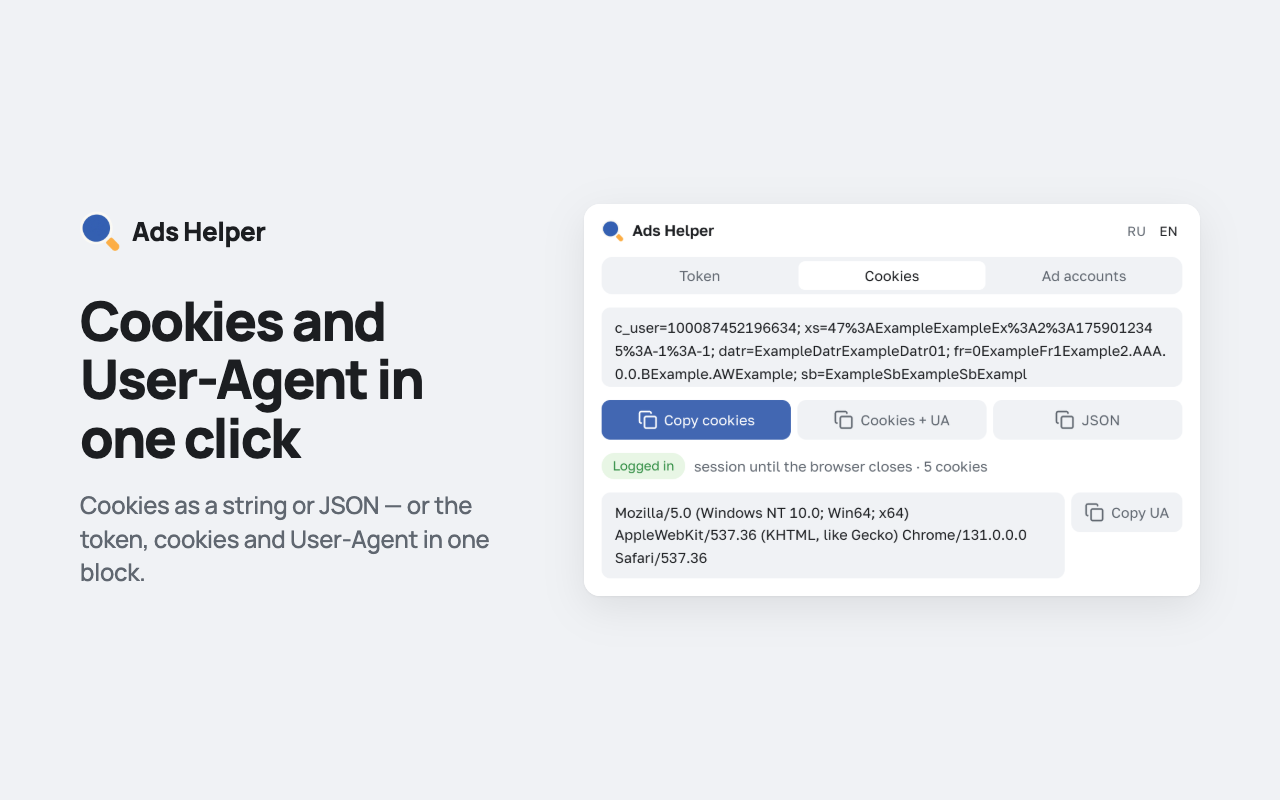
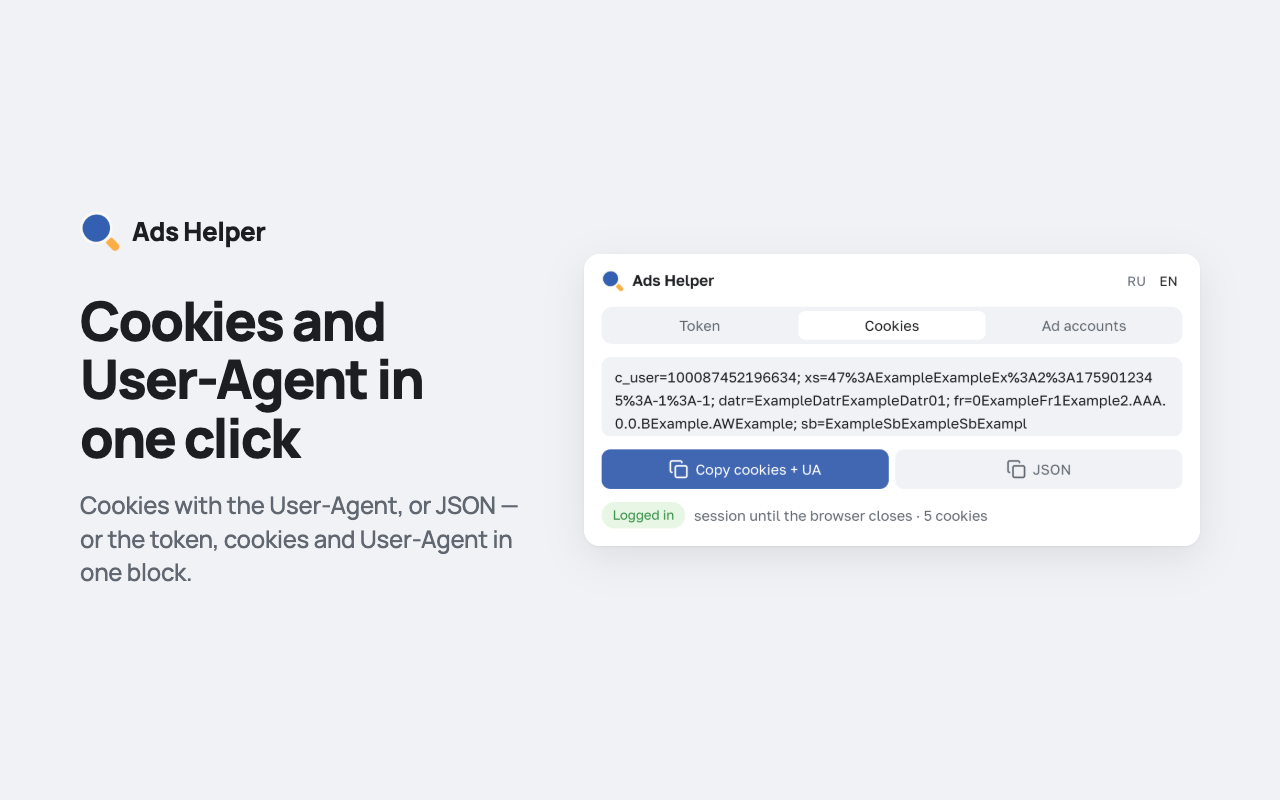
2.4.1: Cookies tab = "Copy cookies + UA" + JSON
- One main button copies the cookie string, blank line, User-Agent; the plain "Copy cookies" button, the User-Agent field and "Copy UA" are gone
- The UA is read only when a copy button needs it (no tab script on popup open)
- Docs, store screenshots and tests follow

diff --git a/fb-helper/js/popup.js b/fb-helper/js/popup.js
@@ -595,7 +595,7 @@ const cookieMap = () => Object.fromEntries(state.cookies.map((c) => [c.name, c])
 const hasSession = () => { const m = cookieMap(); return !!(m.c_user && m.xs); };
 function renderCookies() {
   const byName = cookieMap();
-  for (const id of ["#copyCookies", "#copyCookiesUa", "#copyCookieJson"]) if (!$(id).hasAttribute("aria-busy")) $(id).disabled = !state.cookies.length;
+  for (const id of ["#copyCookiesUa", "#copyCookieJson"]) if (!$(id).hasAttribute("aria-busy")) $(id).disabled = !state.cookies.length;
   // The whole cookie string, one colour like the token, in a short scrollable box;
   // the status line under it says whether the profile is logged in and how many cookies go out.
   const n = state.cookies.length;
@@ -618,19 +618,20 @@ function cookiesJson() {
     ...(c.expirationDate ? { expirationDate: c.expirationDate } : {}),
   })), null, 2);
 }
-async function copyCookies(asJson) {
+async function copyCookieJson() {
   await readCookies();
   if (!hasSession()) return toast(t("ck.noSession"), true);
-  copy(asJson ? cookiesJson() : cookieHeader(), asJson ? t("ck.jsonCopied") : t("ck.copied"));
+  copy(cookiesJson(), t("ck.jsonCopied"));
 }
 // ---------- user agent ----------
 // The User-Agent of this browser profile, as the Facebook page itself sees it. Read from a live FB tab in the MAIN
 // world, like the token: an antidetect profile spoofs it for pages, and the popup's own navigator may not be spoofed —
 // a UA copied from there could differ from the one Facebook has been seeing. Without a readable FB tab there is no UA.
+// Not shown in the popup: it is read only when a copy button needs it.
 function uaInPage() { return navigator.userAgent; }
 async function readUa() {
   const tabs = (await facebookTabs()).slice(0, 5);
-  if (!tabs.length) { Object.assign(state, { ua: null, uaHint: t("grab.noTab") }); renderUa(); return null; }
+  if (!tabs.length) { Object.assign(state, { ua: null, uaHint: t("grab.noTab") }); return null; }
   const ask = async (tab) => {
     const u = (await chrome.scripting.executeScript({ target: { tabId: tab.id }, world: "MAIN", func: uaInPage }))?.[0]?.result;
     if (isUserAgent(u)) return u;
@@ -641,19 +642,10 @@ async function readUa() {
   const ua = await Promise.race([Promise.any(tabs.map(ask)).catch(() => null), new Promise((r) => { timer = setTimeout(r, TAB_WAIT_MS, null); })]);
   clearTimeout(timer);
   Object.assign(state, { ua, uaHint: ua ? "" : t("grab.noAccess") });
-  renderUa();
   return ua;
 }
-function renderUa() {
-  $("#uaBox").textContent = state.ua || state.uaHint || "—";
-  $("#uaBox").classList.toggle("filled", !!state.ua);   // the button stays enabled: a click re-reads the tab (the retry)
-}
-async function copyUa() {
-  const ua = await readUa();
-  if (!ua) return toast(state.uaHint || t("grab.noAccess"), true);
-  copy(ua, t("ua.copied"));
-}
-// Cookie string, blank line, User-Agent: both read live (the UA from the FB tab, alongside the cookies). No Graph request.
+// The Cookies tab's main button. Cookie string, blank line, User-Agent: both read live (the UA from the FB tab,
+// alongside the cookies). No Graph request. Without a readable UA nothing is copied (an incomplete set).
 async function copyCookiesUa() {
   const btn = $("#copyCookiesUa");
   if (btn.disabled) return;
@@ -1237,7 +1229,6 @@ async function switchLang(l) {
   applyStatic();
   $("#tokenInfo").classList.add("hidden");
   renderToken(); renderPeriods(); renderAccounts(); renderUsage(); renderCookies();
-  readUa().catch(console.error);                       // re-reads: a hint (no FB tab) is in the old language
   grabToken({ toClipboard: false, silent: true });
 }
 
@@ -1260,10 +1251,8 @@ document.addEventListener("DOMContentLoaded", async () => {
   $("#grabToken").addEventListener("click", () => grabToken());
   $("#checkToken").addEventListener("click", checkToken);
   $("#copyEnv").addEventListener("click", copyEnv);
-  $("#copyCookies").addEventListener("click", () => copyCookies(false));
-  $("#copyCookieJson").addEventListener("click", () => copyCookies(true));
-  $("#copyUa").addEventListener("click", copyUa);
   $("#copyCookiesUa").addEventListener("click", copyCookiesUa);
+  $("#copyCookieJson").addEventListener("click", copyCookieJson);
   $("#loadAccounts").addEventListener("click", () => fetchAccounts());
   $("#copyLiveIds").addEventListener("click", copyLiveIds);
   $("#accountFilter").addEventListener("input", (e) => { state.filter = e.target.value; renderAccounts(); });
@@ -1272,7 +1261,6 @@ document.addEventListener("DOMContentLoaded", async () => {
   await checkOwner();                                   // cache from another FB login: don't show it
   renderToken(); renderAccounts(); renderUsage();
   readCookies();
-  readUa().catch(console.error);
   // Show the token right away: read it from the open FB tab (local page read, no network request).
   grabToken({ toClipboard: false, silent: true }).catch(console.error).finally(tokenReadyDone);
   started = true;

diff --git a/fb-helper/js/i18n.js b/fb-helper/js/i18n.js
@@ -19,10 +19,8 @@ const D = {
     "guide.EAAd": "— события: пиксели, датасеты и отслеживание.",
     "guide.EAAH": "— каталоги: товары и расширенное управление.",
     "guide.EAAI": "— настройка автоправил.",
-    "copyCookies": "Скопировать cookie", "copyCookies.title": "Строка cookie: c_user=…; xs=…; …",
     "copyJson.title": "Те же cookie с атрибутами (domain, path, срок) — для импорта в антидетект",
-    "ckUa": "Cookie + UA", "ckUa.title": "Строка cookie, пустая строка, User-Agent этого профиля", "ckUa.copied": "Cookie + UA скопированы",
-    "ua.copy": "Скопировать UA", "ua.title": "User-Agent этого профиля, как его видит страница Facebook", "ua.copied": "User-Agent скопирован",
+    "ckUa": "Скопировать cookie + UA", "ckUa.title": "Строка cookie, пустая строка, User-Agent этого профиля (как его видит страница Facebook)", "ckUa.copied": "Cookie + UA скопированы",
     "search": "Поиск", "search.aria": "Поиск кабинетов",
     "liveIds": "ID активных", "liveIds.title": "ID активных кабинетов списком, по одному в строке",
     "refresh": "Обновить", "period.aria": "Период спенда",
@@ -77,7 +75,7 @@ const D = {
 
     "ck.none": "Cookie не найдены", "ck.loggedIn": "Вход выполнен", "ck.until": "сессия до ", "ck.untilClose": "сессия до закрытия браузера",
     "ck.count": ["cookie", "cookie", "cookie"], "ck.loggedOut": "Не залогинен в Facebook", "ck.noSession": "Нет c_user / xs — залогинься в FB",
-    "ck.jsonCopied": "JSON скопирован", "ck.copied": "Cookie скопированы", "env.copied": "Токен + cookie + UA скопированы",
+    "ck.jsonCopied": "JSON скопирован", "env.copied": "Токен + cookie + UA скопированы",
     "env.mismatch": "Токен от другого аккаунта ({a}), а cookie — {b}. Обнови вкладку FB",
     "env.unverified": "Токен + cookie + UA скопированы — владелец токена не проверен",
 
@@ -115,10 +113,8 @@ const D = {
     "guide.EAAd": "— events: pixels, datasets and tracking.",
     "guide.EAAH": "— catalogs: products and advanced management.",
     "guide.EAAI": "— automated rules.",
-    "copyCookies": "Copy cookies", "copyCookies.title": "Cookie string: c_user=…; xs=…; …",
     "copyJson.title": "Same cookies with attributes (domain, path, expiry) — for import into an antidetect browser",
-    "ckUa": "Cookies + UA", "ckUa.title": "Cookie string, blank line, this profile's User-Agent", "ckUa.copied": "Cookies + UA copied",
-    "ua.copy": "Copy UA", "ua.title": "This profile's User-Agent, as the Facebook page sees it", "ua.copied": "User-Agent copied",
+    "ckUa": "Copy cookies + UA", "ckUa.title": "Cookie string, blank line, this profile's User-Agent (as the Facebook page sees it)", "ckUa.copied": "Cookies + UA copied",
     "search": "Search", "search.aria": "Search ad accounts",
     "liveIds": "Active IDs", "liveIds.title": "IDs of active ad accounts, one per line",
     "refresh": "Refresh", "period.aria": "Spend period",
@@ -173,7 +169,7 @@ const D = {
 
     "ck.none": "No cookies found", "ck.loggedIn": "Logged in", "ck.until": "session until ", "ck.untilClose": "session until the browser closes",
     "ck.count": ["cookie", "cookies"], "ck.loggedOut": "Not logged in to Facebook", "ck.noSession": "No c_user / xs — log in to FB",
-    "ck.jsonCopied": "JSON copied", "ck.copied": "Cookies copied", "env.copied": "Token + cookies + UA copied",
+    "ck.jsonCopied": "JSON copied", "env.copied": "Token + cookies + UA copied",
     "env.mismatch": "The token belongs to another account ({a}), the cookies to {b}. Reload the FB tab",
     "env.unverified": "Token + cookies + UA copied — token owner not verified",
 

diff --git a/fb-helper/css/popup.css b/fb-helper/css/popup.css
@@ -188,7 +188,6 @@ main { padding-bottom: 0; }
    same distance from the left and right edges. */
 .split { display: grid; grid-template-columns: 1fr 1fr; gap: var(--spacing-1-5); min-width: 0; }
 .split .btn { justify-content: center; }
-.split.three { grid-template-columns: 1fr 1fr 1fr; }
 /* Token field + "Check" + refresh on top; the copy buttons under them span all three columns. */
 .token-grid {
   display: grid; grid-template-columns: minmax(0, 1fr) auto auto; align-items: center;
@@ -196,12 +195,6 @@ main { padding-bottom: 0; }
 }
 .token-grid > .split { grid-column: 1 / -1; }
 /* User-Agent (cookie tab): the string wraps in the box, never clipped — it is what gets sent on, so it must be readable. */
-.ua-row { display: grid; grid-template-columns: minmax(0, 1fr) auto; align-items: start; gap: var(--spacing-1-5); min-width: 0; }
-#uaBox {
-  height: auto; min-height: var(--size-element-md); padding: calc((var(--size-element-md) - 1.6em) / 2) var(--spacing-3);
-  line-height: 1.6; overflow-wrap: anywhere; color: var(--color-text-disabled);   /* breaks at spaces first */
-}
-#uaBox.filled { color: var(--color-text-primary); }
 .source { display: flex; flex-wrap: wrap; align-items: center; gap: var(--spacing-1-5) var(--spacing-2); color: var(--color-text-secondary); }
 .source:empty { display: none; }
 /* Token kind: plain text under the field — badge + app, what it is for, where ads go. */
@@ -390,7 +383,4 @@ main { padding-bottom: 0; }
   .total { grid-template-columns: minmax(0, 1fr); }
   .total-meta { text-align: left; white-space: normal; }
   .token-grid > .split { grid-template-columns: minmax(0, 1fr); }   /* "Token + cookies + UA" doesn't fit half the width */
-  .split.three { grid-template-columns: minmax(0, 1fr); }
-  .ua-row { grid-template-columns: minmax(0, 1fr); }
-  .ua-row .btn { justify-content: center; }
 }

diff --git a/fb-helper/popup.html b/fb-helper/popup.html
@@ -56,16 +56,11 @@
     <section id="tab-cookies" class="panel" role="tabpanel" aria-labelledby="tabbtn-cookies">
       <div class="card">
         <div class="field data" id="cookieBox">—</div>
-        <div class="split three">
-          <button id="copyCookies" class="btn primary" title="Cookie string: c_user=…; xs=…; …" data-i18n-title="copyCookies.title"><i class="i i-copy"></i><span data-i18n="copyCookies">Copy cookies</span></button>
-          <button id="copyCookiesUa" class="btn" title="Cookie string, blank line, this profile's User-Agent" data-i18n-title="ckUa.title"><i class="i i-copy"></i><span data-i18n="ckUa">Cookies + UA</span></button>
+        <div class="split">
+          <button id="copyCookiesUa" class="btn primary" title="Cookie string, blank line, this profile's User-Agent (as the Facebook page sees it)" data-i18n-title="ckUa.title"><i class="i i-copy"></i><span data-i18n="ckUa">Copy cookies + UA</span></button>
           <button id="copyCookieJson" class="btn" title="Same cookies with attributes (domain, path, expiry) — for import into an antidetect browser" data-i18n-title="copyJson.title"><i class="i i-copy"></i>JSON</button>
         </div>
         <div id="cookieStatus" class="source"></div>
-        <div class="ua-row">
-          <div class="field data" id="uaBox">—</div>
-          <button id="copyUa" class="btn" title="This profile's User-Agent, as the Facebook page sees it" data-i18n-title="ua.title"><i class="i i-copy"></i><span data-i18n="ua.copy">Copy UA</span></button>
-        </div>
       </div>
     </section>
 

diff --git a/chrome-web-store/art/cover-1280x800.html b/chrome-web-store/art/cover-1280x800.html
@@ -19,7 +19,7 @@
   .card img { display: block; width: 100%; }
 </style>
 <div class="head">
-  <h1><img src="../icons/logo.webp" alt="">Ads Helper <span class="v">2.4.0</span></h1>
+  <h1><img src="../icons/logo.webp" alt="">Ads Helper <span class="v">2.4.1</span></h1>
   <h2>Chrome extension</h2>
 </div>
 <div class="row">

diff --git a/chrome-web-store/art/cover.html b/chrome-web-store/art/cover.html
@@ -19,7 +19,7 @@
   .card img { display: block; width: 100%; }
 </style>
 <div class="head">
-  <h1><img src="../icons/logo.webp" alt="">Ads Helper <span class="v">2.4.0</span></h1>
+  <h1><img src="../icons/logo.webp" alt="">Ads Helper <span class="v">2.4.1</span></h1>
   <h2>Chrome extension</h2>
 </div>
 <div class="row">

diff --git a/chrome-web-store/art/social.html b/chrome-web-store/art/social.html
@@ -19,7 +19,7 @@
   .card img { display: block; width: 100%; }
 </style>
 <div class="head">
-  <h1><img src="../icons/logo.webp" alt="">Ads Helper <span class="v">2.4.0</span></h1>
+  <h1><img src="../icons/logo.webp" alt="">Ads Helper <span class="v">2.4.1</span></h1>
   <h2>Chrome extension</h2>
 </div>
 <div class="row">

diff --git a/README.md b/README.md
@@ -1,4 +1,4 @@
-# FB Helper 2.4.0
+# FB Helper 2.4.1
 
 [![CI](https://github.com/slilbudget/fb-helper/actions/workflows/ci.yml/badge.svg)](https://github.com/slilbudget/fb-helper/actions/workflows/ci.yml) [![Release](https://img.shields.io/github/v/release/slilbudget/fb-helper)](https://github.com/slilbudget/fb-helper/releases/latest) [![License: MIT](https://img.shields.io/github/license/slilbudget/fb-helper)](LICENSE)
 
@@ -8,7 +8,7 @@ Chrome extension (MV3): Facebook access token, session cookies and ad account st
 
 ## Install
 
-1. Download `fb-helper-2.4.0.zip` from [Releases](https://github.com/slilbudget/fb-helper/releases/latest) and unpack (or `git clone` and use the `fb-helper/` folder)
+1. Download `fb-helper-2.4.1.zip` from [Releases](https://github.com/slilbudget/fb-helper/releases/latest) and unpack (or `git clone` and use the `fb-helper/` folder)
 2. `chrome://extensions` → enable **Developer mode**
 3. **Load unpacked** → pick the unpacked folder (from a clone: `fb-helper/`; keep the folder after installing)
 
@@ -18,7 +18,7 @@ Chrome 121+. A Facebook tab must be open in the same profile; the ads token (EAA
 
 - **Language** — English and Russian, `RU · EN` toggle in the header. The first run follows the browser's UI language; after that the choice is yours, stored in `chrome.storage.local`, and survives a browser restart. English account statuses and disable reasons use the Marketing API names (`Unsettled`, `Ads integrity policy`, …), the same as Ads Manager.
 - **Token** — reads the token from the open FB tab and shows its type: EAAB (Ads Manager), EAAG (Business Manager), EAAd (Events Manager), EAAH (Commerce Manager), EAAI (Automated Rules). Each type links to the page where that token lives. **Check** shows the profile, the app and the permissions behind the token. The refresh button next to the field re-reads the token from the FB tab (and lets you retry a token that was reported dead).
-- **Cookies** — as a header string or as JSON with attributes for importing into a browser profile; **Token + cookies + UA** (Token tab) copies them in one block — token, blank line, cookie string, blank line, User-Agent, blank line, then `Profile: <name> (<id>)` and `BM: <name> (<id>), …` in English — after one `/me` read confirms the token belongs to the logged-in user (`c_user`) and brings the profile name and its Business Managers (`BM: not available` for tokens without `business_management`, e.g. EAAd / EAAH). A token from another account is not copied, and neither is a block without a readable User-Agent. The Cookies tab also has **Cookies + UA** (cookie string, blank line, User-Agent; no Graph request) and shows the profile's **User-Agent** with its own copy button. It is read from the open Facebook tab, so it is the one the page sees (an antidetect profile's spoofed value, not the popup's own).
+- **Cookies** — **Copy cookies + UA** (cookie string, blank line, the profile's User-Agent; no Graph request) or JSON with attributes for importing into a browser profile; **Token + cookies + UA** (Token tab) copies them in one block — token, blank line, cookie string, blank line, User-Agent, blank line, then `Profile: <name> (<id>)` and `BM: <name> (<id>), …` in English — after one `/me` read confirms the token belongs to the logged-in user (`c_user`) and brings the profile name and its Business Managers (`BM: not available` for tokens without `business_management`, e.g. EAAd / EAAH). A token from another account is not copied, and neither is a block without a readable User-Agent. The User-Agent is not shown in the popup; it is read, when a copy button needs it, from the open Facebook tab, so it is the one the page sees (an antidetect profile's spoofed value, not the popup's own).
 - **Ad accounts** — status, disable reason, spend per period (today / yesterday / 7 / 30 days / all time — the larger of Meta's own total, which lags behind, and the last 30 days + today), clicks and CPC, daily limit, billing threshold, payment method, pixels, business owner; ads with statuses, rejection reasons (every reason with the placement it applies to; disapproved ads first) and, for the selected period, each ad's spend, impressions, clicks and CPC (a second read after the list; switching the period sends nothing; "All time" is Meta's `maximum`, at most 37 months). The refresh button at the top of the tab re-reads the account list only; each account's ads have their own refresh icon in the ads card (so the ads cost nothing unless you ask). The loaded list and ads are kept until the browser closes and survive FB tab or token changes; logging in as another FB user drops them.
 
 ## Safety and limits
@@ -39,7 +39,7 @@ Chrome 121+. A Facebook tab must be open in the same profile; the ads token (EAA
 ## Build the archive
 
 ```
-(cd fb-helper && zip -qrD ../fb-helper-2.4.0.zip . -x '*.DS_Store') && zip -qj fb-helper-2.4.0.zip LICENSE
+(cd fb-helper && zip -qrD ../fb-helper-2.4.1.zip . -x '*.DS_Store') && zip -qj fb-helper-2.4.1.zip LICENSE
 ```
 
 The Chrome Web Store package (`chrome-web-store/release/ads-helper-<version>.zip`) comes from `chrome-web-store/build.sh`.

diff --git a/chrome-web-store/RELEASE_CHECKLIST.md b/chrome-web-store/RELEASE_CHECKLIST.md
@@ -3,11 +3,11 @@
 The repo and GitHub stay **FB Helper** (`fb-helper/`). Only the store build is **Ads Helper** with the neutral logo (`chrome-web-store/icons/logo-source.png`, `chrome-web-store/icons/`).
 
 ## 1. Build
-- [ ] `chrome-web-store/build.sh` → `chrome-web-store/release/unpacked/` (exact ZIP contents) and `chrome-web-store/release/ads-helper-2.4.0.zip`
+- [ ] `chrome-web-store/build.sh` → `chrome-web-store/release/unpacked/` (exact ZIP contents) and `chrome-web-store/release/ads-helper-2.4.1.zip`
 - [ ] `node --test test/*.test.mjs` passes
 - [ ] `EXT_DIR=chrome-web-store/release/unpacked node test/e2e.mjs` passes (runs the store build, not the repo)
-- [ ] `manifest.json` is at the ZIP root (`unzip -l chrome-web-store/release/ads-helper-2.4.0.zip | grep -x '.*manifest.json'`), no comments in it
-- [ ] Version is higher than any previously uploaded version (2.1.0 and 2.2.0 are already in the store; every upload needs a bump — this one is 2.4.0)
+- [ ] `manifest.json` is at the ZIP root (`unzip -l chrome-web-store/release/ads-helper-2.4.1.zip | grep -x '.*manifest.json'`), no comments in it
+- [ ] Version is higher than any previously uploaded version (2.1.0 and 2.2.0 are already in the store; every upload needs a bump — this one is 2.4.1)
 - [ ] No `FB Helper`, no Facebook "f" logo in the package (the build script fails if the old name is left; icons come from `chrome-web-store/icons/`)
 
 ## 2. Manual test of the unpacked store build
@@ -36,7 +36,7 @@ The repo and GitHub stay **FB Helper** (`fb-helper/`). Only the store build is *
 - [ ] Trader / non-trader status declared honestly (Dashboard → Account)
 
 ## 5. Dashboard (copy from `STORE_LISTING.md`)
-- [ ] Package: upload `chrome-web-store/release/ads-helper-2.4.0.zip`
+- [ ] Package: upload `chrome-web-store/release/ads-helper-2.4.1.zip`
 - [ ] Store listing: description, category, language, store icon `chrome-web-store/icons/icon_128.png`, screenshots, small promo tile
 - [ ] Privacy: single purpose, justification for `cookies`, `storage`, `scripting`, host permission, remote code = **No**, data usage boxes (Authentication information, PII, Financial and payment information), three certifications, privacy policy URL
 - [ ] Distribution: visibility and regions
@@ -54,7 +54,7 @@ The repo and GitHub stay **FB Helper** (`fb-helper/`). Only the store build is *
 |---|---|---|---|
 | Store icon | 128×128 PNG | yes | **Done:** `chrome-web-store/icons/icon_128.png` — 96×96 artwork inside 16 px transparent padding per side |
 | Extension icons in the package | 16, 32, 48, 128 PNG | yes | **Done** (built into the ZIP from `chrome-web-store/icons/`) |
-| Screenshots | 1280×800, JPEG or 24-bit PNG without alpha (as the Dashboard form states), 1 to 5 | at least 1 | **Done (2.4.0 UI):** English listing `chrome-web-store/art/out/screenshots/en/01-accounts … 04-cookies.png`, Russian listing `…/screenshots/ru/…`, plus the overview `chrome-web-store/art/out/store-screenshot-1280x800.png` as an optional 5th (`cover.png` is 2100×1182 and is rejected by the form) |
+| Screenshots | 1280×800, JPEG or 24-bit PNG without alpha (as the Dashboard form states), 1 to 5 | at least 1 | **Done (2.4.1 UI):** English listing `chrome-web-store/art/out/screenshots/en/01-accounts … 04-cookies.png`, Russian listing `…/screenshots/ru/…`, plus the overview `chrome-web-store/art/out/store-screenshot-1280x800.png` as an optional 5th (`cover.png` is 2100×1182 and is rejected by the form) |
 | Small promo tile | 440×280, JPEG or 24-bit PNG without alpha | yes | **Done:** `chrome-web-store/art/out/promo-tile-440x280.png` |
 | Marquee promo tile | 1400×560 | optional | Not made; needed only to be featured |
 | Global promo video | YouTube URL | optional in the Dashboard form | Skip |

diff --git a/PRIVACY_POLICY.md b/PRIVACY_POLICY.md
@@ -11,8 +11,8 @@ Ads Helper is a Chrome extension that shows, for the Facebook profile you are lo
 | Data | Where it comes from | What happens to it |
 |---|---|---|
 | Facebook access token | Read from the Facebook tab you have open (the page's own script variables and HTML) | Shown in the popup; kept in `chrome.storage.session`; sent to `graph.facebook.com` as an `Authorization` header to read your ad accounts; copied to the clipboard only when you press a copy button |
-| Facebook session cookies | `chrome.cookies` for `facebook.com` | Shown in the popup; copied to the clipboard (as a header string or JSON) only when you press a copy button. The `c_user` cookie is also read to notice that you switched Facebook accounts, so cached data of the previous account is dropped |
-| Browser User-Agent | `navigator.userAgent` as reported by your open Facebook tab (the value Facebook's page itself sees) | Shown in the popup; copied to the clipboard (alone, with the cookies, or with the token and cookies) only when you press a copy button. Never stored, never sent anywhere |
+| Facebook session cookies | `chrome.cookies` for `facebook.com` | Shown in the popup; copied to the clipboard (as a header string with the User-Agent, or JSON) only when you press a copy button. The `c_user` cookie is also read to notice that you switched Facebook accounts, so cached data of the previous account is dropped |
+| Browser User-Agent | `navigator.userAgent` as reported by your open Facebook tab (the value Facebook's page itself sees) | Not shown in the popup; read and copied to the clipboard (with the cookies, or with the token and cookies) only when you press a copy button. Never stored, never sent anywhere |
 | Profile, app and permission data; the profile's Business Manager names and IDs | `graph.facebook.com` (`me`, `me` with its `businesses`, `app`, `me/permissions`) | Shown in the popup when you press **Check**. **Token + cookies + UA** makes one `me` read that confirms the token belongs to the logged-in user and adds the profile name and its Business Managers to the copied block; that answer is kept in `chrome.storage.session` until the browser closes |
 | Ad account data: names, IDs, status, disable reason, spend, clicks, limits, payment-method label, pixels, business owner, ads with their review status, and each ad's spend, impressions and clicks | `graph.facebook.com` (`me/adaccounts`, `act_<id>/ads`) | Shown in the popup; cached in `chrome.storage.session` |
 | Settings: interface language, newer Graph API version learned from Meta, last open tab and spend period | Your choices / Meta's API responses | `chrome.storage.local` (language, API version) and the popup's `localStorage` (tab, period) |
